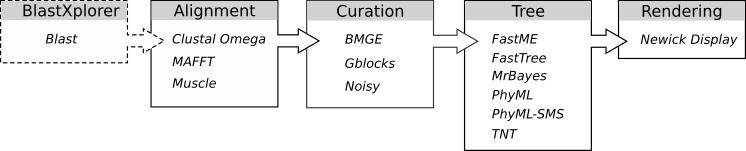
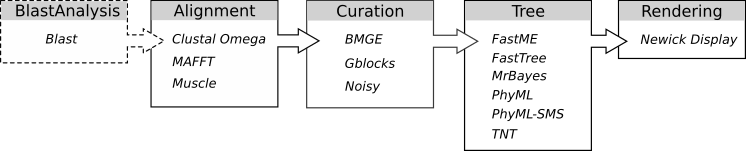
rename

Changed region(s): [[0.0, 0.0265, 0.185, 0.1325]]

diff --git a/templates/documentation.html b/templates/documentation.html
@@ -44,7 +44,7 @@ It means that the user should customize the options of each step of the workflow
 Moreover, NGPhylogeny.fr provides a user-friendly visualization layer specific to the different
 kinds of data usually manipulated in phylogenetics (i.e. alignments, trees).
 
-Finally, BlastXplorer module is placed upstream phylogenetic workflows and aims at searching for sequences that are similar to a given user input sequence. BlastXplorer then analyses Blast results and builds a quick (and inaccurate) tree in which users can remove unwanted sequences. Remaining sequences may then be used as input of any ngphylogeny.Fr workflows.
+Finally, BlastAnalysis module is placed upstream phylogenetic workflows and aims at searching for sequences that are similar to a given user input sequence. BlastAnalysis then analyses Blast results and builds a quick (and inaccurate) tree in which users can remove unwanted sequences. Remaining sequences may then be used as input of any ngphylogeny.Fr workflows.
 
 ### Branch supports
 
@@ -272,8 +272,8 @@ Tools that make up the workflows can be configured and run independently. They a
 
 ![Workflow Maker]({% static 'images/doc/menu_tools_1.png' %})
 
-## BlastXPlorer
-BlastXPlorer is accessible via the "Phylogeny Analysis/Blast" link on the tool bar:
+## BlastAnalysis
+BlastAnalysis is accessible via the "Phylogeny Analysis/Blast" link on the tool bar:
 
 ![Workflow Maker]({% static 'images/doc/menu_blast_1.png' %})
 
